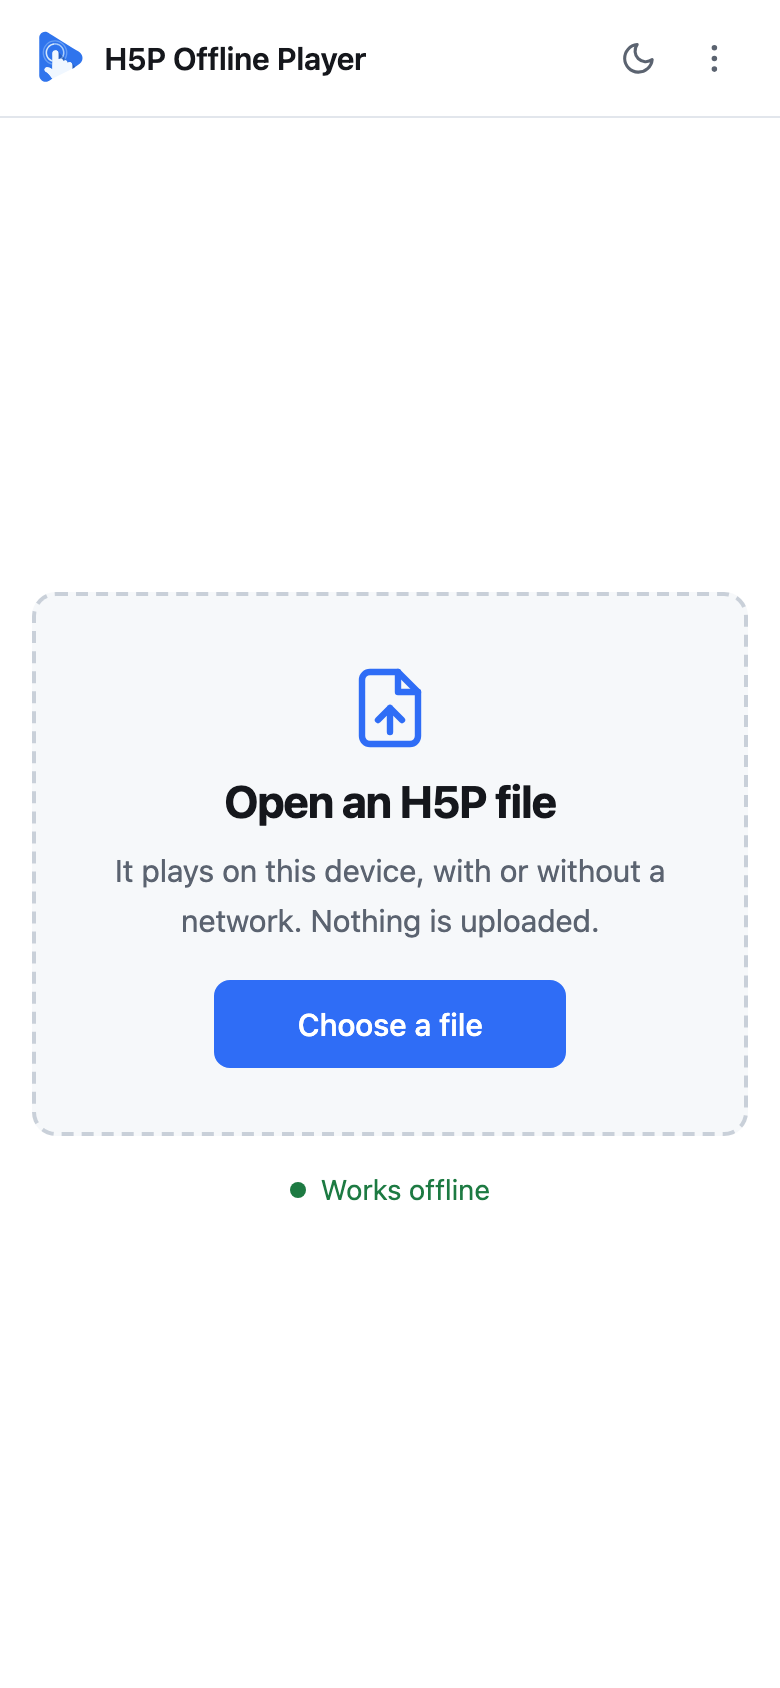
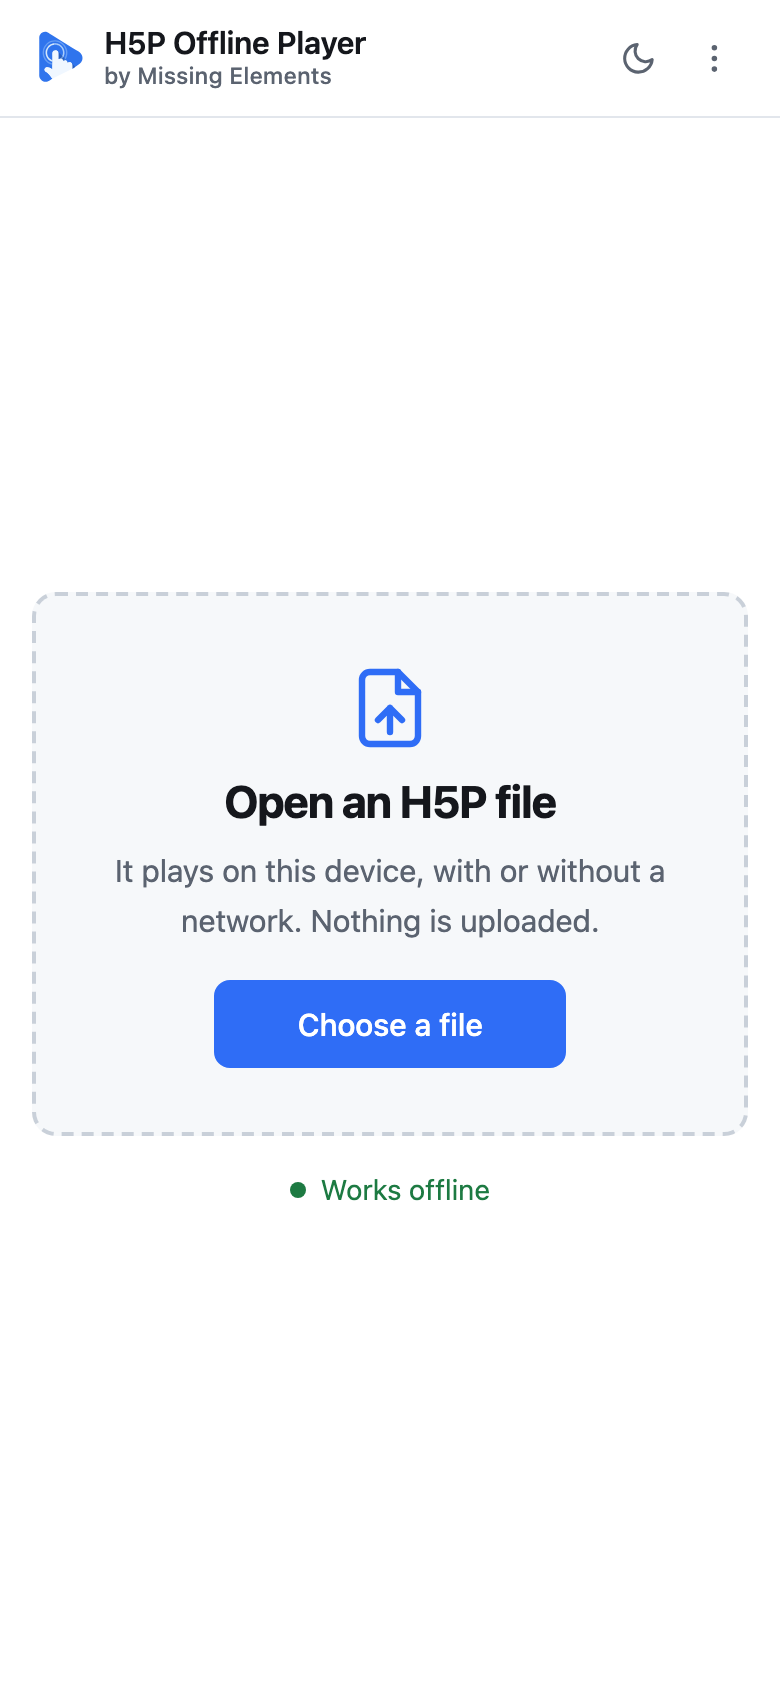
fix: update branding to include "by Missing Elements" in app title and metadata

Changed region(s): [[0.1231, 0.0, 0.4615, 0.0616]]

diff --git a/apps/demo/app/index.html b/apps/demo/app/index.html
@@ -3,7 +3,7 @@
   <head>
     <meta charset="utf-8" />
     <meta name="viewport" content="width=device-width, initial-scale=1, viewport-fit=cover" />
-    <title>H5P Offline Player — an installable H5P app (PWA) that plays .h5p files offline</title>
+    <title>H5P Offline Player by Missing Elements — an installable H5P app (PWA) that plays .h5p files offline</title>
     <meta name="description" content="A free H5P player you install from the browser (PWA). Open a .h5p file from your computer and play it with no server, no account and, once installed, no network. Chrome, Edge and Safari on desktop, iPhone, iPad and Android." />
     <link rel="canonical" href="%SITE_URL%/app/" />
     <!-- The window's bar in the page's own colour, so the two read as one bar: these two for a
@@ -11,8 +11,8 @@
     <meta name="theme-color" content="#ffffff" media="(prefers-color-scheme: light)" />
     <meta name="theme-color" content="#0f1114" media="(prefers-color-scheme: dark)" />
     <meta property="og:type" content="website" />
-    <meta property="og:site_name" content="h5p-offline-player" />
-    <meta property="og:title" content="H5P Offline Player — an installable H5P app (PWA) that plays .h5p files offline" />
+    <meta property="og:site_name" content="h5p-offline-player by Missing Elements" />
+    <meta property="og:title" content="H5P Offline Player by Missing Elements — an installable H5P app (PWA) that plays .h5p files offline" />
     <meta property="og:description" content="A free H5P player you install from the browser (PWA). Open a .h5p file from your computer and play it with no server, no account and, once installed, no network. Chrome, Edge and Safari on desktop, iPhone, iPad and Android." />
     <meta property="og:url" content="%SITE_URL%/app/" />
     <meta property="og:image" content="%SITE_URL%/demo/og-image.png" />
@@ -21,7 +21,7 @@
       {
         "@context": "https://schema.org",
         "@type": "WebApplication",
-        "name": "H5P Offline Player",
+        "name": "H5P Offline Player by Missing Elements",
         "description": "A free H5P player you install from the browser (PWA). Open a .h5p file from your computer and play it with no server, no account and, once installed, no network.",
         "url": "%SITE_URL%/app/",
         "applicationCategory": "EducationalApplication",
@@ -53,7 +53,7 @@
         <button type="button" class="icon-button" id="back" aria-label="Close the file" title="Close the file" hidden>
           <svg viewBox="0 0 24 24" fill="none" stroke="currentColor" stroke-width="2" stroke-linecap="round" stroke-linejoin="round" aria-hidden="true"><path d="M19 12H5M12 19l-7-7 7-7" /></svg>
         </button>
-        <a class="brand" id="brand" href="/app/"><img class="brand-mark" src="/demo/favicon.svg" alt="" width="32" height="32" />H5P Offline Player</a>
+        <a class="brand" id="brand" href="/app/"><img class="brand-mark" src="/demo/favicon.svg" alt="" width="32" height="32" /><span class="brand-name">H5P Offline Player <span class="brand-by">by Missing Elements</span></span></a>
         <p class="appbar-title" id="title" hidden></p>
       </div>
       <!-- partial: topbar-nav -->
@@ -129,7 +129,7 @@
       <section class="about" aria-labelledby="about-title">
         <h2 id="about-title">An H5P player that works offline</h2>
         <p>
-          H5P Offline Player is a web app you install from the browser — a PWA — that plays
+          H5P Offline Player by Missing Elements is a web app you install from the browser — a PWA — that plays
           <code>.h5p</code> files without Moodle, WordPress, Lumi or any other server. Teachers hand
           out the files; learners open them here, at home or in class, with or without a connection.
         </p>
@@ -182,7 +182,7 @@
     <input type="file" id="file" accept=".h5p" hidden />
 
     <dialog class="about-dialog" id="about-dialog" aria-labelledby="about-dialog-title">
-      <h2 id="about-dialog-title">H5P Offline Player</h2>
+      <h2 id="about-dialog-title">H5P Offline Player by Missing Elements</h2>
       <p>Plays <code>.h5p</code> files on this device, with or without a network. Files are read here
         and never uploaded.</p>
       <p>It keeps where you were in each file, in this browser on this device, and the start-over

diff --git a/apps/demo/index.html b/apps/demo/index.html
@@ -8,7 +8,7 @@
     <link rel="canonical" href="%SITE_URL%/" />
     <meta name="theme-color" content="#2f6df6" />
     <meta property="og:type" content="website" />
-    <meta property="og:site_name" content="h5p-offline-player" />
+    <meta property="og:site_name" content="h5p-offline-player by Missing Elements" />
     <meta property="og:locale" content="en_US" />
     <meta property="og:title" content="Self-hosted H5P player: standalone, headless, offline — h5p-offline-player" />
     <meta property="og:description" content="A standalone H5P player in one web component: plays .h5p files on your own site with no H5P server, headless in any front end, and offline as an app." />
@@ -30,7 +30,7 @@
         "@graph": [
           {
             "@type": "WebSite",
-            "name": "h5p-offline-player",
+            "name": "h5p-offline-player by Missing Elements",
             "url": "%SITE_URL%/"
           },
           {
@@ -183,7 +183,11 @@
         files: in a CMS, in object storage, in your repository. One element plays it in any front
         end, from plain HTML to React or Vue, and the results reach your own code as xAPI events.
         <a href="/demo/setup.html">Setting it up</a> covers bundlers, frameworks and pages with no
-        build step. In CI,
+        build step. In VS Code,
+        <a href="https://marketplace.visualstudio.com/items?itemName=MissingElements.h5p-preview" rel="noopener">H5P Preview by Missing Elements</a>
+        opens a <code>.h5p</code> in an editor tab and plays it, offline; Cursor and VSCodium
+        install it from <a href="https://open-vsx.org/extension/MissingElements/h5p-preview" rel="noopener">Open VSX</a>.
+        In CI,
         <a href="https://github.com/missing-elements/h5p-offline-player/blob/main/docs/verify.md" rel="noopener">h5p-verify</a>
         plays a package in a headless browser and says whether it works.
       </p>

diff --git a/apps/demo/demo/index.html b/apps/demo/demo/index.html
@@ -8,7 +8,7 @@
     <link rel="canonical" href="%SITE_URL%/demo/" />
     <meta name="theme-color" content="#2f6df6" />
     <meta property="og:type" content="website" />
-    <meta property="og:site_name" content="h5p-offline-player" />
+    <meta property="og:site_name" content="h5p-offline-player by Missing Elements" />
     <meta property="og:locale" content="en_US" />
     <meta property="og:title" content="H5P player examples: xAPI, cmi5, iframe embed, local files — h5p-offline-player" />
     <meta property="og:description" content="The whole integration in two lines, and the other ways to self-host a browser-only H5P player: xAPI, cmi5, a file from disk, a player domain of your own, two players on one page." />
@@ -75,6 +75,13 @@
           <a class="card" href="/app/">
             <strong>The installable app (PWA)</strong>
             <span>The player as an app: install it from Chrome, Edge or Safari, on a computer, an iPhone or an iPad, and play <code>.h5p</code> files with no network.</span>
+          </a>
+        </li>
+        <!-- The whole card is one link, so Open VSX is named in its text rather than linked. -->
+        <li>
+          <a class="card" href="https://marketplace.visualstudio.com/items?itemName=MissingElements.h5p-preview" rel="noopener">
+            <strong>The VS Code extension</strong>
+            <span>H5P Preview by Missing Elements: open a <code>.h5p</code> in VS Code and it plays in an editor tab, offline. Cursor and VSCodium install it from Open VSX.</span>
           </a>
         </li>
         <li>

diff --git a/apps/demo/demo/player-page.css b/apps/demo/demo/player-page.css
@@ -177,6 +177,12 @@ p code, li code, .lede code { padding: 0.1em 0.35em; border-radius: 4px; backgro
   height: 1.7rem;
 }
 
+/* The name with its author on a line under it, so the bar is no wider for it. H5P Group's
+   trademark policy lets a name lead with "H5P" only beside who made it (h5p.org/trademark; see
+   AGENTS.md). The space before the byline keeps the link's name "… by Missing Elements". */
+.brand-name { display: flex; flex-direction: column; line-height: 1.15; }
+.brand-by { color: var(--muted); font-size: 0.72rem; font-weight: 500; letter-spacing: 0; }
+
 /* Wraps rather than overflows: a wider system font or a larger text setting on a narrow phone
    pushed the fourth link past the edge, and the whole page scrolled sideways. */
 .topbar nav { display: flex; flex-wrap: wrap; justify-content: center; gap: 0.25rem; min-width: 0; }

diff --git a/apps/demo/demo/compare.html b/apps/demo/demo/compare.html
@@ -8,7 +8,7 @@
     <link rel="canonical" href="%SITE_URL%/demo/compare.html" />
     <meta name="theme-color" content="#2f6df6" />
     <meta property="og:type" content="website" />
-    <meta property="og:site_name" content="h5p-offline-player" />
+    <meta property="og:site_name" content="h5p-offline-player by Missing Elements" />
     <meta property="og:locale" content="en_US" />
     <meta property="og:title" content="H5P players compared: h5p-standalone, Lumi, h5p.com, Moodle — h5p-offline-player" />
     <meta property="og:description" content="How h5p-offline-player compares with h5p-standalone, Lumi, h5p.com and H5P in Moodle, WordPress and Drupal: what each runs on, which plays offline, and when to choose something else." />

diff --git a/apps/demo/demo/local-file.html b/apps/demo/demo/local-file.html
@@ -8,7 +8,7 @@
     <link rel="canonical" href="%SITE_URL%/demo/local-file.html" />
     <meta name="theme-color" content="#2f6df6" />
     <meta property="og:type" content="website" />
-    <meta property="og:site_name" content="h5p-offline-player" />
+    <meta property="og:site_name" content="h5p-offline-player by Missing Elements" />
     <meta property="og:locale" content="en_US" />
     <meta property="og:title" content="Play a .h5p file from disk in the browser — h5p-offline-player" />
     <meta property="og:description" content="Play a .h5p file from disk with no upload and no unzipping: hand the element a File from a picker and it is read with slice(), never loaded whole. The way around a host that sends no CORS headers." />

diff --git a/apps/demo/demo/setup.html b/apps/demo/demo/setup.html
@@ -8,7 +8,7 @@
     <link rel="canonical" href="%SITE_URL%/demo/setup.html" />
     <meta name="theme-color" content="#2f6df6" />
     <meta property="og:type" content="website" />
-    <meta property="og:site_name" content="h5p-offline-player" />
+    <meta property="og:site_name" content="h5p-offline-player by Missing Elements" />
     <meta property="og:locale" content="en_US" />
     <meta property="og:title" content="How to self-host H5P on your own site — h5p-offline-player" />
     <meta property="og:description" content="How to self-host H5P with no H5P server: install the player with a bundler, in React, Vue or plain HTML, copy it onto a static site, or serve its player page from a domain of your own and frame it." />

diff --git a/apps/demo/demo/embed.html b/apps/demo/demo/embed.html
@@ -8,7 +8,7 @@
     <link rel="canonical" href="%SITE_URL%/demo/embed.html" />
     <meta name="theme-color" content="#2f6df6" />
     <meta property="og:type" content="website" />
-    <meta property="og:site_name" content="h5p-offline-player" />
+    <meta property="og:site_name" content="h5p-offline-player by Missing Elements" />
     <meta property="og:locale" content="en_US" />
     <meta property="og:title" content="Embed H5P in an iframe from your own domain — h5p-offline-player" />
     <meta property="og:description" content="Embed H5P with an iframe from a domain of your own, with no H5P server: the player page framed by your site, sized with H5P's own resizer protocol, with xAPI statements relayed on request." />

diff --git a/apps/demo/demo/normalize.html b/apps/demo/demo/normalize.html
@@ -8,7 +8,7 @@
     <link rel="canonical" href="%SITE_URL%/demo/normalize.html" />
     <meta name="theme-color" content="#2f6df6" />
     <meta property="og:type" content="website" />
-    <meta property="og:site_name" content="h5p-offline-player" />
+    <meta property="og:site_name" content="h5p-offline-player by Missing Elements" />
     <meta property="og:locale" content="en_US" />
     <meta property="og:title" content="Why H5P video won't stream, and how to fix it — h5p-offline-player" />
     <meta property="og:description" content="Why video and audio compressed inside an .h5p cannot be played on demand, how to tell whether a package is affected, and how to fix it once with the normalizer." />

diff --git a/apps/demo/tests/app.test.ts b/apps/demo/tests/app.test.ts
@@ -212,7 +212,7 @@ it('opens a file from the keyboard, shows it under its own title, and closes it 
 
   state = await seen(page)
   expect(state).toMatchObject({ screen: 'player', bar: 'Do you know what just happened?', startOver: true, back: true })
-  expect(await page.title()).toMatch(/^Do you know what just happened\? — H5P Offline Player$/)
+  expect(await page.title()).toMatch(/^Do you know what just happened\? — H5P Offline Player by Missing Elements$/)
   // One step in the window's history, and the keyboard is not left on the hidden home screen.
   expect(await page.evaluate(() => history.length)).toBe(steps + 1)
   expect(await page.evaluate(() => document.activeElement?.id)).toBe('back')

diff --git a/apps/demo/demo/cmi5.html b/apps/demo/demo/cmi5.html
@@ -8,7 +8,7 @@
     <link rel="canonical" href="%SITE_URL%/demo/cmi5.html" />
     <meta name="theme-color" content="#2f6df6" />
     <meta property="og:type" content="website" />
-    <meta property="og:site_name" content="h5p-offline-player" />
+    <meta property="og:site_name" content="h5p-offline-player by Missing Elements" />
     <meta property="og:locale" content="en_US" />
     <meta property="og:title" content="H5P as a cmi5 assignable unit, with no H5P server — h5p-offline-player" />
     <meta property="og:description" content="The player as a cmi5 assignable unit: launched by an LMS, statements to its LRS, completion by the mastery score, with the build's revision on every statement." />

diff --git a/apps/demo/demo/xapi.html b/apps/demo/demo/xapi.html
@@ -8,7 +8,7 @@
     <link rel="canonical" href="%SITE_URL%/demo/xapi.html" />
     <meta name="theme-color" content="#2f6df6" />
     <meta property="og:type" content="website" />
-    <meta property="og:site_name" content="h5p-offline-player" />
+    <meta property="og:site_name" content="h5p-offline-player by Missing Elements" />
     <meta property="og:locale" content="en_US" />
     <meta property="og:title" content="H5P xAPI statements as DOM events — h5p-offline-player" />
     <meta property="og:description" content="Every xAPI statement H5P content emits arrives as a DOM event on the element, with no H5P server. This is where an LRS would be wired in." />
